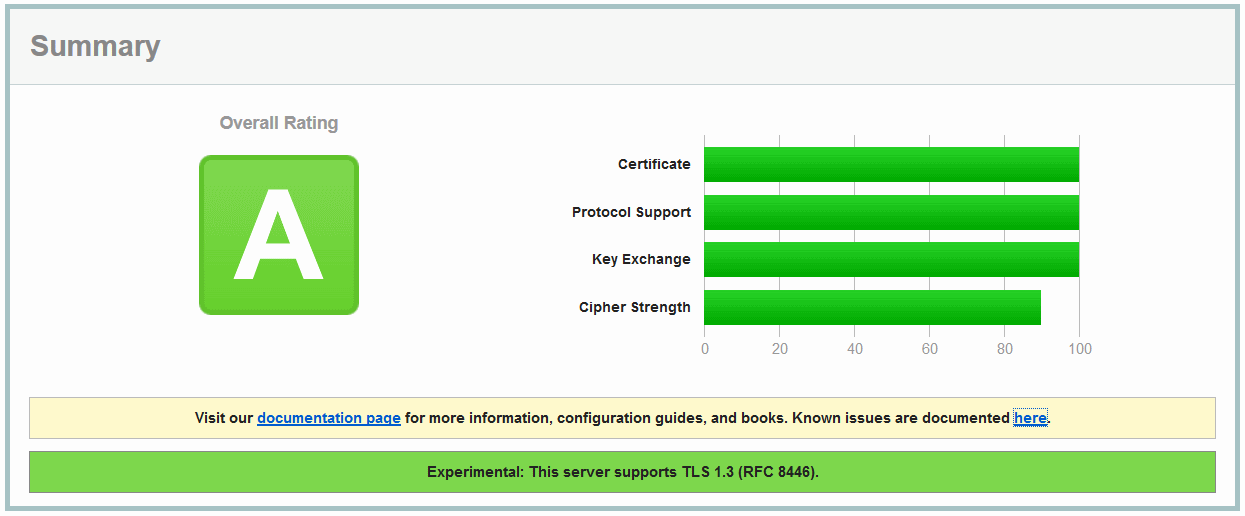
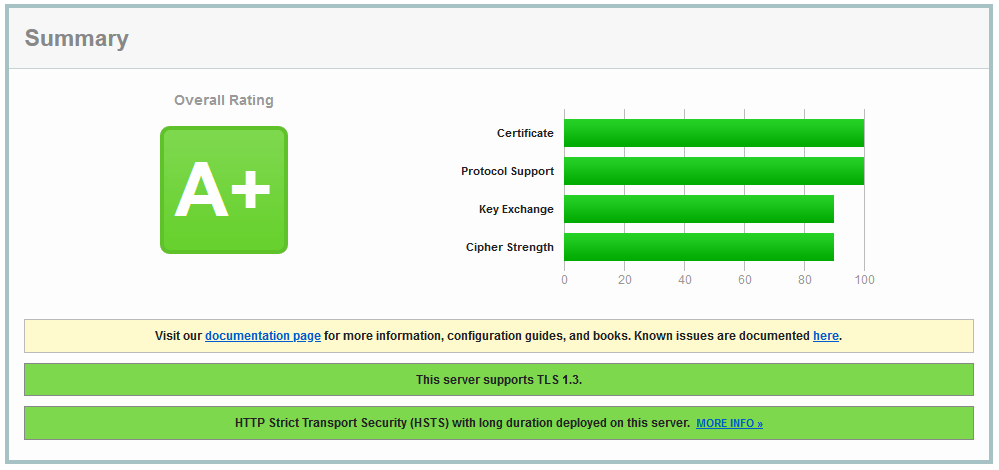
Dev (#11)
* 1.0.3-Beta

* Strong TLS

* Update nginx.conf

* Update openssl.conf

* Update default.conf

* Rewrite Readme

diff --git a/README.md b/README.md
@@ -39,7 +39,7 @@ With this image you get a preconfigured nginx image. This image provides support
 
 A secure TLS protected server is started without having to change the configuration. A self-signed certificate is created for this purpose. SSL Labs rates the configuration with an A.
 
-![SSL Labs rating](https://raw.githubusercontent.com/joshua-schnabel/docker-nginx/master/doc/image/ssllabs.png) (_Only with custom TLS certificate_)
+![SSL Labs rating](./doc/image/ssllabs.png)
 
 ## Setup
 
@@ -87,6 +87,38 @@ The configuration shown above will cause a warning window in all browsers. This 
 To get a free certificate from Let's Encrypt you have to do the following. First the certbot must be installed on the host. 
 Then a certificate can be created using the command below. Please make sure that a directory is mounted by the host as webroot.
 
+#### ACME.sh
+
+```bash
+acme.sh --issue -d <your.domain> --cert-file /media/docker/volumes/nginx/webroot/cert.pem --key-file /media/docker/volumes/nginx/webroot/key.pem --fullchain-file /media/docker/volumes/nginx/webroot/fullchain.pem --reloadcmd "docker restart nginx"
+```
+
+The program will create the following files.
+
+```
+/media/docker/volumes/nginx/webroot/cert.pem 
+/media/docker/volumes/nginx/webroot/key.pem
+/media/docker/volumes/nginx/webroot/fullchain.pem
+```
+
+Now the certificate and the private key have to be mounted. 
+
+```yml
+services:
+   nginx:
+     image: jschnabel/nginx
+     container_name: nginx
+     ports:
+       - 80:80
+       - 443:443	 
+     volumes:
+       - /media/docker/volumes/nginx/webroot:/media/data/webroot
+       - /etc/letsencrypt/live/<your.domain>/fullchain.pem:/media/data/certs/default_cert.pem:ro
+       - /etc/letsencrypt/live/<your.domain>/privkey.pem:/media/data/certs/default_key.pem:ro
+```
+
+#### Certbot
+
 ```bash
 certbot certonly --webroot --webroot-path /media/docker/volumes/nginx/webroot --rsa-key-size 4096 --renew-by-default -d <your.domain>
 ```
@@ -114,7 +146,6 @@ services:
        - /etc/letsencrypt/live/<your.domain>/privkey.pem:/media/data/certs/default_key.pem:ro
 ```
 
-And that was it. Now every browser should accept the connection without problems. 
 
 ### Custom Config
 
@@ -202,51 +233,78 @@ stream {
 
 The log files (error and access log) are stored under `/media/data/logs` by default. This directory can be mounted for external processing of the log files.
 
-## Stuff
+### How to get a better SSL Labs Grade
 
-In this chapter further settings are described.
+If you want a better grade at SSL Labs, the following things have to be done. 
 
-### How to gat a SSL Labs A+ rating?
+#### Key Exchange 100% 
 
-To get an A+ rating on SSL Labs two things have to be done:
+To get a 100% rating in the Key Exchange category it is necessary to use a 4096 bit RSA certificate or an ECDSA certificate with ECDSA P-384 or ECDSA P-521.
 
-1. Add a CAA entry to your DNS with the value `0 issue "letsencrypt.org"` (only if issued via letsencrypt, if not insert your CA)
-2. Add the following configuration
+With acme.sh you can create such a certificate with 4096 bit RSA if you add the following parameter to the command. 
+
+```bash
+acme.sh --issue --keylength 4096 ..."
+```
+
+To get an ECDSA P-384 certificate the command must be modified as follows. 
+
+```bash
+acme.sh --issue --ecc --keylength ec-384 ..."
+```
+
+Certbot currently does not support ECDSA certificates. However a 4096 bit RSA can be created. Therefore the key length has to be provided.
+
+```bash
+certbot certonly --rsa-key-size 4096 ...
+```
+
+![SSL Labs rating](./doc/image/ssllabs_cert.png)
+
+#### Cipher Strength 100%
+
+To get 100% in this discipline no cipher suites with 128bit are allowed in the list of cipher suites. A snippet is provided for this purpose. This snippet must be included as shown in the configuration below. 
+
+WARNING: This will prevent very old clients from accessing your website (e.g. Java <= 7 or Android <= 6). If you expect clients that fall into this category, I advise against using them.  
+
+A custom site configuration could look like this. It should be mounted to `media/data/sites-enabled`.
 
 ```nginx
 server {
-	listen 80 default_server;
-	listen [::]:80 default_server;
-	server_name _; 
+	listen 80;
+	listen [::]:80;
+	server_name <your.domain>; 
 	
 	return 301 https://$host$request_uri;
 }
 
 server {
-	listen 443 ssl http2 default_server;
-	listen [::]:443 ssl http2 default_server;
-	server_name _;
+	listen 443 ssl http2;
+	listen [::]:443 ssl http2;
+	server_name <your.domain>; 
 	
-	ssl_certificate	 /media/data/certs/default_cert.pem;
-	ssl_certificate_key /media/data/certs/default_key.pem;
+	ssl_certificate	 /media/data/certs/<your.domain>.pem;
+	ssl_certificate_key /media/data/certs/<your.domain>.pem;
 
 	include /media/data/snippets/gzip.conf;
 	include /media/data/snippets/header.conf;
-	include /media/data/snippets/tls.conf;
+	include /media/data/snippets/tls_strong.conf;
 	
 	location / {
-		root   /media/data/webroot;
+		root   /media/data/webroot/<your.domain>;
 		index  index.html index.htm;
 	}
 
 	error_page   500 502 503 504  /50x.html;
 	location = /50x.html {
-		root   /media/data/webroot;
+		root   /media/data/webroot/<your.domain>;
 	}
 }
 ```
 
-### How to disable TLS?
+![SSL Labs rating](./doc/image/ssllabs_strong.png)
+
+## How to disable TLS?
 
 Simply add an environment variable named `DISABLETLS` to the container. The value must be `true`.
 
